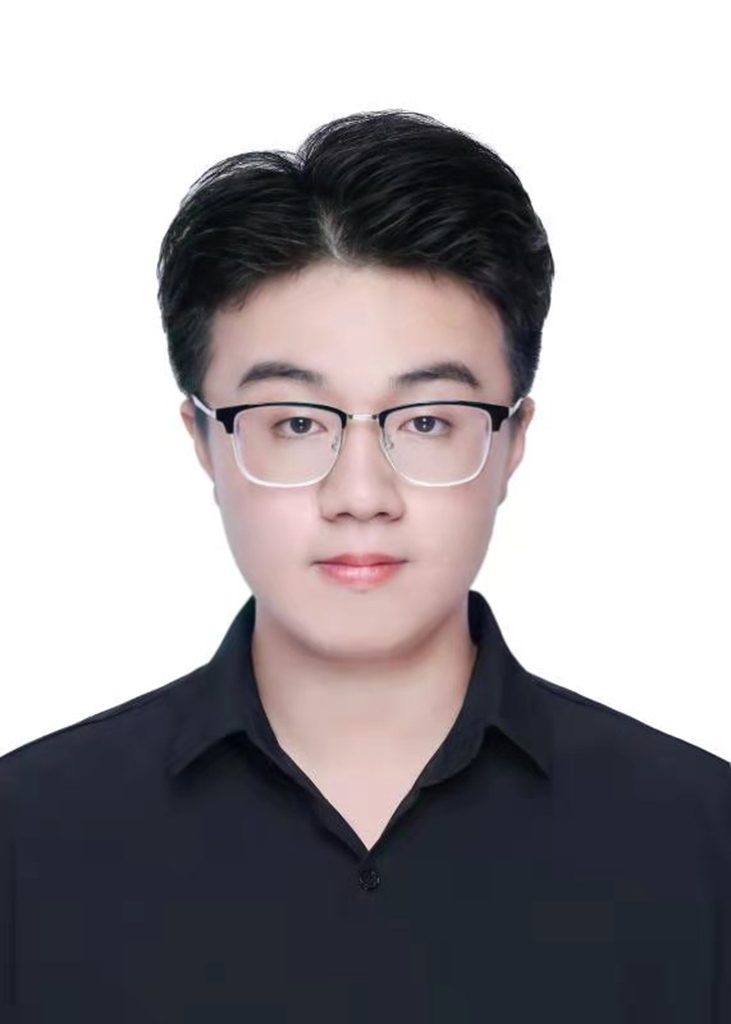
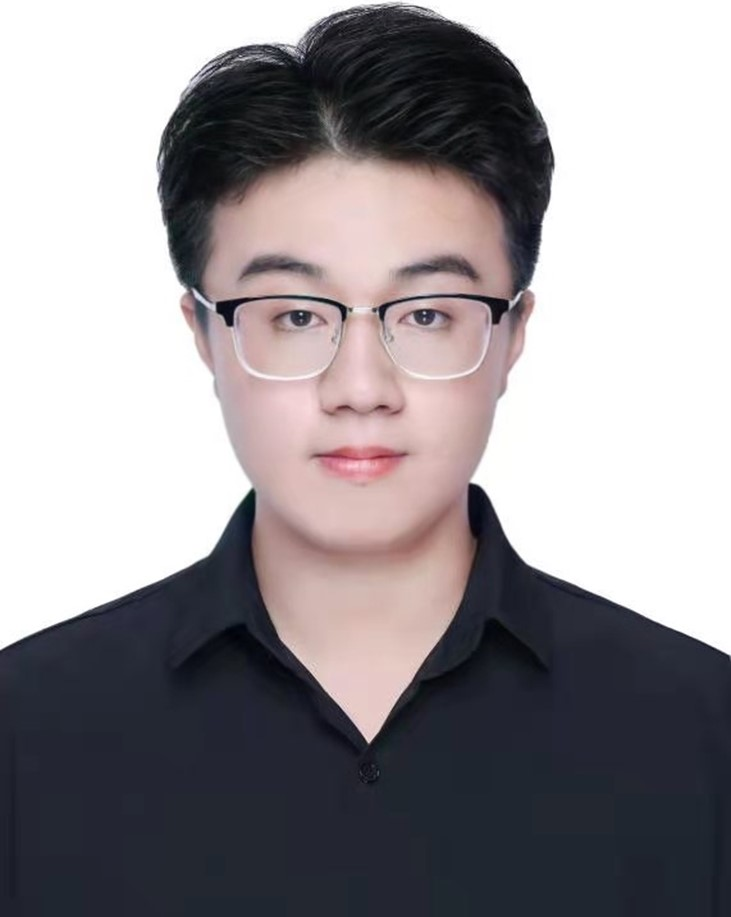
update team

Changed region(s): [[0.0, 0.0, 1.0, 0.855]]

diff --git a/publications/index.htm b/publications/index.htm
@@ -282,7 +282,7 @@
                                     
                                     <div class="pub-description">
                                         <a href="https://dl.acm.org/doi/abs/10.1145/3503161.3547993" target="_blank"> Paper </a>
-                                        <!-- <a href="https://github.com/" target="_blank"> Code </a> -->
+                                        <a href="https://github.com/ccq195/SketchTrans" target="_blank"> Code </a>
                                     </div>
                                 </div>
                                 <hr>
@@ -379,7 +379,8 @@
                                     
                                     <div class="pub-description">
                                         <a href="https://ieeexplore.ieee.org/abstract/document/9665382/" target="_blank"> Paper </a>
-                                        
+                                        <a href="https://github.com/mangye16/DDAG" target="_blank"> Code </a>
+                                        <font color="green">It is an extended version of our ICCV 2017 paper. </font>
                                     </div>
                                 </div>
                                 <hr>

diff --git a/team/index.htm b/team/index.htm
@@ -189,7 +189,7 @@
 
                 <div class="student">
                     <div>
-                        <img src="member_photo/YuPei Huang.jpg">
+                        <img src="member_photo/HuangYuPei.jpg">
                     </div>
                     <div>
                         YuPei Huang<br>
